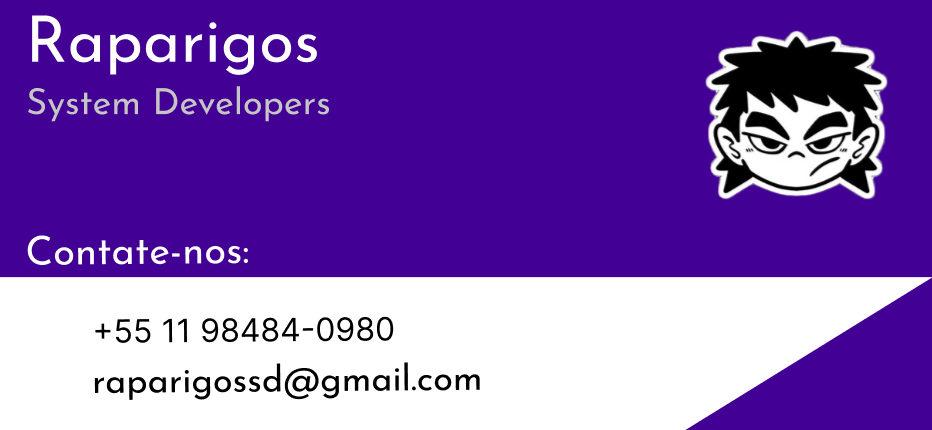
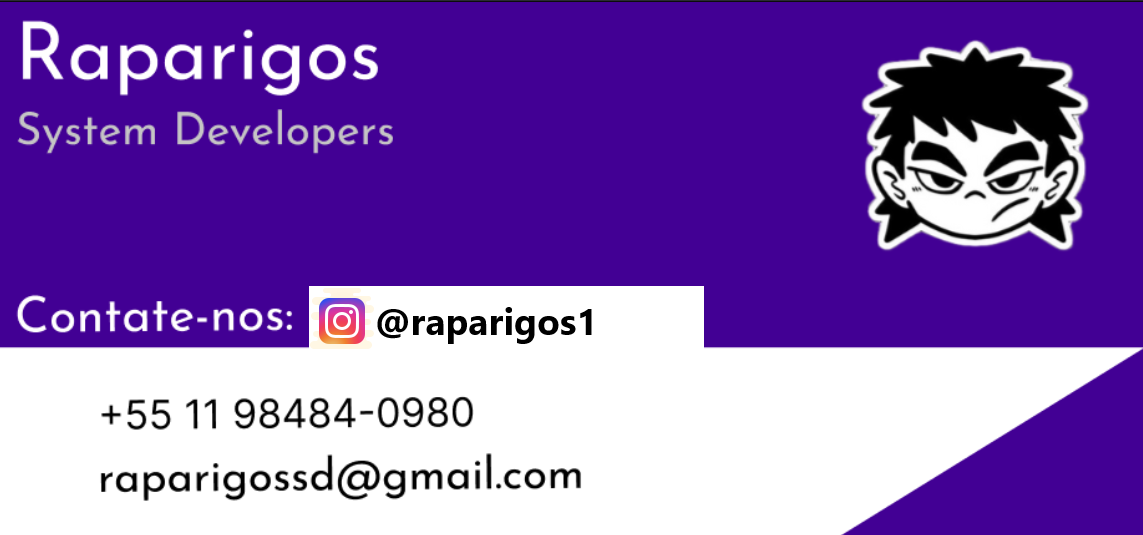
corrigindo nomes e alguns detalhes

diff --git a/mine.html b/mine.html
@@ -32,7 +32,7 @@
             <div class="playlist">
                <a href="persona3.html"><div class="quadradopersona"><img src="src/assets/imagens/persona3album.jpg"></div>
                 <div class="playlist-texto">
-                    <h2>Perosna 3</h2>
+                    <h2>Persona 3</h2>
                     <h3>JRPG, Aventura</h3>
                 </a>
                 </div>
@@ -85,7 +85,7 @@
         <div class="infomusica">
             <h2>*Sandbox *Sobrevivência</h2>
             <div class="infomusicadireita">
-                <H2>Lançamento: 2014</H2>
+                <H2>Lançamento: 2009</H2>
                 <h2>Duração:2H6m</h2>
             </div>
         </div>

diff --git a/faleconosco.html b/faleconosco.html
@@ -32,7 +32,7 @@
             <div class="playlist">
                <a href="persona3.html"><div class="quadradopersona"><img src="src/assets/imagens/persona3album.jpg"></div>
                 <div class="playlist-texto">
-                    <h2>Perosna 3</h2>
+                    <h2>Persona 3</h2>
                     <h3>JRPG, Aventura</h3>
                 </a>
                 </div>
@@ -64,5 +64,6 @@
         </div>
     </div>  
     <img id="cartao" src="./src/assets/imagens/cartaodevisitas.png">
+    <h1>@raparigos1</h1>
 </body>
 </html>

diff --git a/ds3.html b/ds3.html
@@ -32,7 +32,7 @@
             <div class="playlist">
                <a href="persona3.html"><div class="quadradopersona"><img src="src/assets/imagens/persona3album.jpg"></div>
                 <div class="playlist-texto">
-                    <h2>Perosna 3</h2>
+                    <h2>Persona 3</h2>
                     <h3>JRPG, Aventura</h3>
                 </a>
                 </div>

diff --git a/god.html b/god.html
@@ -33,7 +33,7 @@
             <div class="playlist">
                <a href="persona3.html"><div class="quadradopersona"><img src="src/assets/imagens/persona3album.jpg"></div>
                 <div class="playlist-texto">
-                    <h2>Perosna 3</h2>
+                    <h2>Persona 3</h2>
                     <h3>JRPG, Aventura</h3>
                 </a>
                 </div>

diff --git a/hollow.html b/hollow.html
@@ -32,7 +32,7 @@
             <div class="playlist">
                <a href="persona3.html"><div class="quadradopersona"><img src="src/assets/imagens/persona3album.jpg"></div>
                 <div class="playlist-texto">
-                    <h2>Perosna 3</h2>
+                    <h2>Persona 3</h2>
                     <h3>JRPG, Aventura</h3>
                 </a>
                 </div>

diff --git a/home.html b/home.html
@@ -32,7 +32,7 @@
             <div class="playlist">
                <a href="persona3.html"><div class="quadradopersona"><img src="src/assets/imagens/persona3album.jpg"></div>
                 <div class="playlist-texto">
-                    <h2>Perosna 3</h2>
+                    <h2>Persona 3</h2>
                     <h3>JRPG, Aventura</h3>
                 </a>
                 </div>

diff --git a/local.html b/local.html
@@ -32,7 +32,7 @@
             <div class="playlist">
                <a href="persona3.html"><div class="quadradopersona"><img src="src/assets/imagens/persona3album.jpg"></div>
                 <div class="playlist-texto">
-                    <h2>Perosna 3</h2>
+                    <h2>Persona 3</h2>
                     <h3>JRPG, Aventura</h3>
                 </a>
                 </div>

diff --git a/persona3.html b/persona3.html
@@ -32,7 +32,7 @@
             <div class="playlist">
                <a href="persona3.html"><div class="quadradopersona"><img src="src/assets/imagens/persona3album.jpg"></div>
                 <div class="playlist-texto">
-                    <h2>Perosna 3</h2>
+                    <h2>Persona 3</h2>
                     <h3>JRPG, Aventura</h3>
                 </a>
                 </div>

diff --git a/sky.html b/sky.html
@@ -32,7 +32,7 @@
             <div class="playlist">
                <a href="persona3.html"><div class="quadradopersona"><img src="src/assets/imagens/persona3album.jpg"></div>
                 <div class="playlist-texto">
-                    <h2>Perosna 3</h2>
+                    <h2>Persona 3</h2>
                     <h3>JRPG, Aventura</h3>
                 </a>
                 </div>

diff --git a/tlou.html b/tlou.html
@@ -32,7 +32,7 @@
             <div class="playlist">
                <a href="persona3.html"><div class="quadradopersona"><img src="src/assets/imagens/persona3album.jpg"></div>
                 <div class="playlist-texto">
-                    <h2>Perosna 3</h2>
+                    <h2>Persona 3</h2>
                     <h3>JRPG, Aventura</h3>
                 </a>
                 </div>

diff --git a/undertale.html b/undertale.html
@@ -32,7 +32,7 @@
             <div class="playlist">
                <a href="persona3.html"><div class="quadradopersona"><img src="src/assets/imagens/persona3album.jpg"></div>
                 <div class="playlist-texto">
-                    <h2>Perosna 3</h2>
+                    <h2>Persona 3</h2>
                     <h3>JRPG, Aventura</h3>
                 </a>
                 </div>
